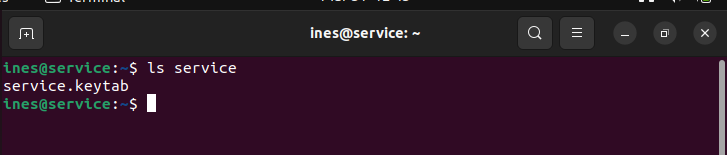
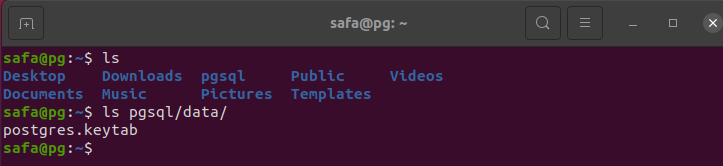
pg

diff --git a/README.md b/README.md
@@ -17,18 +17,19 @@ We do this step for the 2 other machines (service and client machines).
 
 ![Changing Hostname](images/ips_hostnames/Service/hostname.png)
 
-![Changing Hostname](images/ips_hostnames/Client/hostname.png)
+(Client's hostname: client.insat.tn)
 
 ## 2- Getting IP Adresses
 Now we need to get the IP Adresses of all the three machines. We can use this command to do that
 ```
 hostname -I
 ```
-![Displaying IP](images/ips_hostnames/KDC/ip.png)
-
-![Displaying IP](images/ips_hostnames/Service/ip.png)
-
-![Displaying IP](images/ips_hostnames/Client/ip.png)
+```
+In ou cases the IP adresses found are :
+KDC: 192.168.56.104
+Service: 192.168.56.105
+Client: 192.168.56.106
+```
 
 Note : All 3 machines need to have a Host-only Adapter.
 
@@ -41,26 +42,30 @@ sudo nano /etc/hosts
 ```
 and we add these 3 lines in the /etc/hosts file for all of 3 machines
 ```
-192.168.56.129  kdc.insat.tn kdc
-192.168.56.128  service.insat.tn service
-192.168.56.130  client.insat.tn client
+192.168.56.104  kdc.insat.tn kdc
+192.168.56.105  service.insat.tn service
+192.168.56.106  client.insat.tn client
 ```
 
 ![Changing /etc/hosts](images/etc_hosts/etc_hosts.png)
 
 Now we can test our configuration by executing for example in kdc machine:
 ```
-nslookup service
-ping service
+nslookup client
 ```
-![Ping](images/etc_hosts/ping1.png)
+![nslookup](images/etc_hosts/nslookup.png)
 
-and in service machine: 
+We can test the communication with: 
 ```
-nslookup kdc
-ping kdc
+ping client
 ```
 ![Ping](images/etc_hosts/ping2.png)
+
+and in client machine we can try: 
+```
+ping kdc
+```
+![Ping](images/etc_hosts/ping1.png)
 
 ## 4-Setting The KDC
 
@@ -97,13 +102,11 @@ So we start with the admin principals:
 sudo kadmin.local
 kadmin.local:  add_principal root/admin
 ```
-![Realm](images/kdc/admin_principal.png)
 
 We verify that the principal is created
 ```
 kadmin.local:  list_principals
 ```
-![Realm](images/kdc/admin_principal2.png)
 
 Next, we need to grant all access rights to the Kerberos database to admin principal root/admin in the configuration file /etc/krb5kdc/kadm5.acl
 ```
@@ -113,10 +116,9 @@ sudo nano /etc/krb5kdc/kadm5.acl
 
 Now we create the other 2 principals with theses 2 commands : 
 ```
-kadmin.local:  add_principal client
-kadmin.local:  add_principal service/service.insat.tn
+kadmin.local:  add_principal safa
+kadmin.local:  add_principal postgres/pg.insat.tn
 ```
-![Realm](images/kdc/other_principals.png)
 
 Now we verify if they were added successfully
 ```
@@ -141,8 +143,8 @@ the same prompts as in the KDC server will appear and we need to enter the same 
 Now let's create the keytab
 ```
 ktutil 
-ktutil:  add_entry -password -p service/service.insat.tn@INSAT.TN -k 1 -e aes256-cts-hmac-sha1-96
-ktutil:  wkt service.keytab
+ktutil:  add_entry -password -p postgres/pg.insat.tn@INSAT.TN -k 1 -e aes256-cts-hmac-sha1-96
+ktutil:  wkt postgres.keytab
 ```
 ![Realm](images/keytab/1.png)
 
@@ -152,16 +154,15 @@ To do that we need to install openssh server with this command
 sudo apt-get install openssh-server
 ```
 
-In Service machine, we create a folder named "service" to store the keytab
+In Service machine, we create a folder named "pgsql/data" to store the keytab
 ```
-mkdir service
+mkdir -p pgsql/data
 ```
 
 then we go back to the KDC server send the file with this command
 ```
-scp service.keytab ines@service.insat.tn:/home/service
+scp postgres.keytab safa@pg.insat.tn:/home/safa/pgsql/data
 ```
-![Realm](images/keytab/2.png)
 
 We can verify in the Service machine if the keytab file was successfully sent
 ![Realm](images/keytab/3.png)
@@ -170,33 +171,20 @@ We now execute these commands to verify that the service principal was succesful
 ```
 ktutil
 ktutil:  list
-ktutil:  read_kt service/service.keytab
+ktutil:  read_kt pgsql/data/postgres.keytab
 ktutil:  list
 ```
+![Realm](images/keytab/4.1.png)
 ![Realm](images/keytab/4.png)
 
-#### Installing and Configuring Squid
+#### Installing and Configuring Postgresql
 Squid is a popular open-source caching proxy server that can be used to improve the performance of web servers by caching frequently accessed web pages and serving them from memory instead of fetching them from the web server each time they are requested.
 
 To install we execute :
 ```
 sudo apt-get upgrade
-sudo apt-get install squid
-```
 
-To configure it
 ```
-sudo gedit /etc/squid/squid.conf
-```
-we add those lines in the file
-``` 
-auth_param negotiate porgram /usr/lib/squid/negotiate_kerberos_auth -r INSAT.TN
-auth_param negotiate children 10
-auth_param neogtiate keep_alive on
-acl auth proxy_auth REQUIRED
-http_access allow auth
-```
-![Realm](images/squid/1.png)
 
 ## 6-Setting The Client Machine
 We start by installing those packages (same as the service server)
